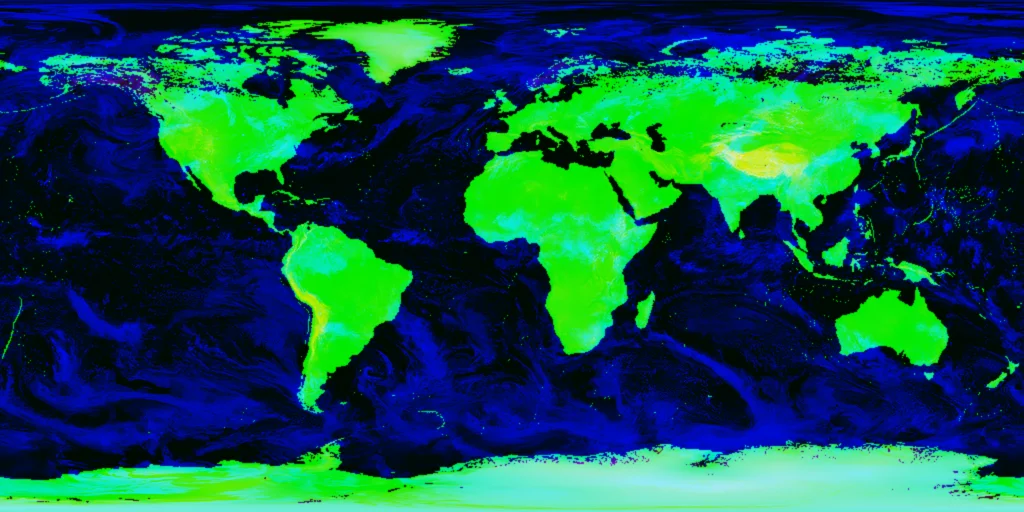
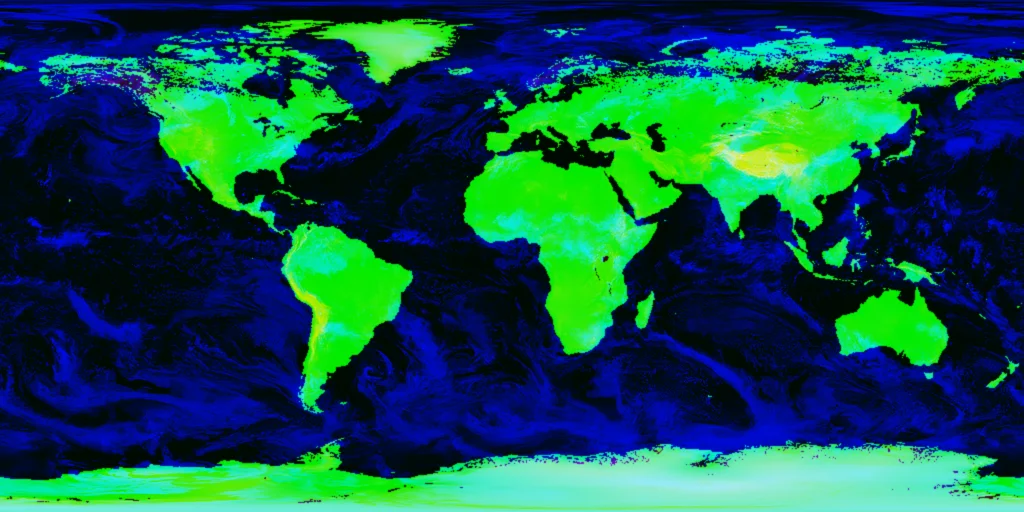
fix: lighten the Blue Marble ocean so the Pacific reads evenly
The day map is NASA's Blue Marble with bathymetry, which renders ocean
depth. The deep Pacific comes out near-black (mean rgb 3,7,24) while the
shallower Atlantic reads 15,23,42, and on the globe that difference is
not perceived as bathymetry - only as dark blotches over one hemisphere.

NASA publishes no lighter variant. The non-bathymetry Blue Marble is
flat rather than brighter, and its asset URLs 404, so flatten the ocean
during texture generation instead: blend every water pixel 62% toward a
single mid-ocean blue. Land is untouched and the mid-ocean ridges still
show through faintly. Pacific now reads 12,35,69 against the Atlantic's
23,43,74.

The existing water test needed widening first. Abyssal plains sit right
on the b-r = 17 cliff the roughness calibration already documents, and
enough of their pixels fell through the margin to survive the lift as
black speckles across the deep Pacific. Water is now also anything dark
and at least as blue as it is red, which lifts the roughness mask from
72.0% to 72.6% ocean by area - still on the correct side of 70.8%.

Regenerated: earth-day-2048.webp 199KB -> 173KB, earth-brc-1024.webp
picks up the wider mask, earth-night-2048.webp byte-identical. Total
346KB, under the 400KB budget.

diff --git a/next-env.d.ts b/next-env.d.ts
@@ -1,6 +1,6 @@
 /// <reference types="next" />
 /// <reference types="next/image-types/global" />
-import "./.next/dev/types/routes.d.ts";
+import "./.next/types/routes.d.ts";
 
 // NOTE: This file should not be edited
 // see https://nextjs.org/docs/pages/api-reference/config/typescript for more information.
